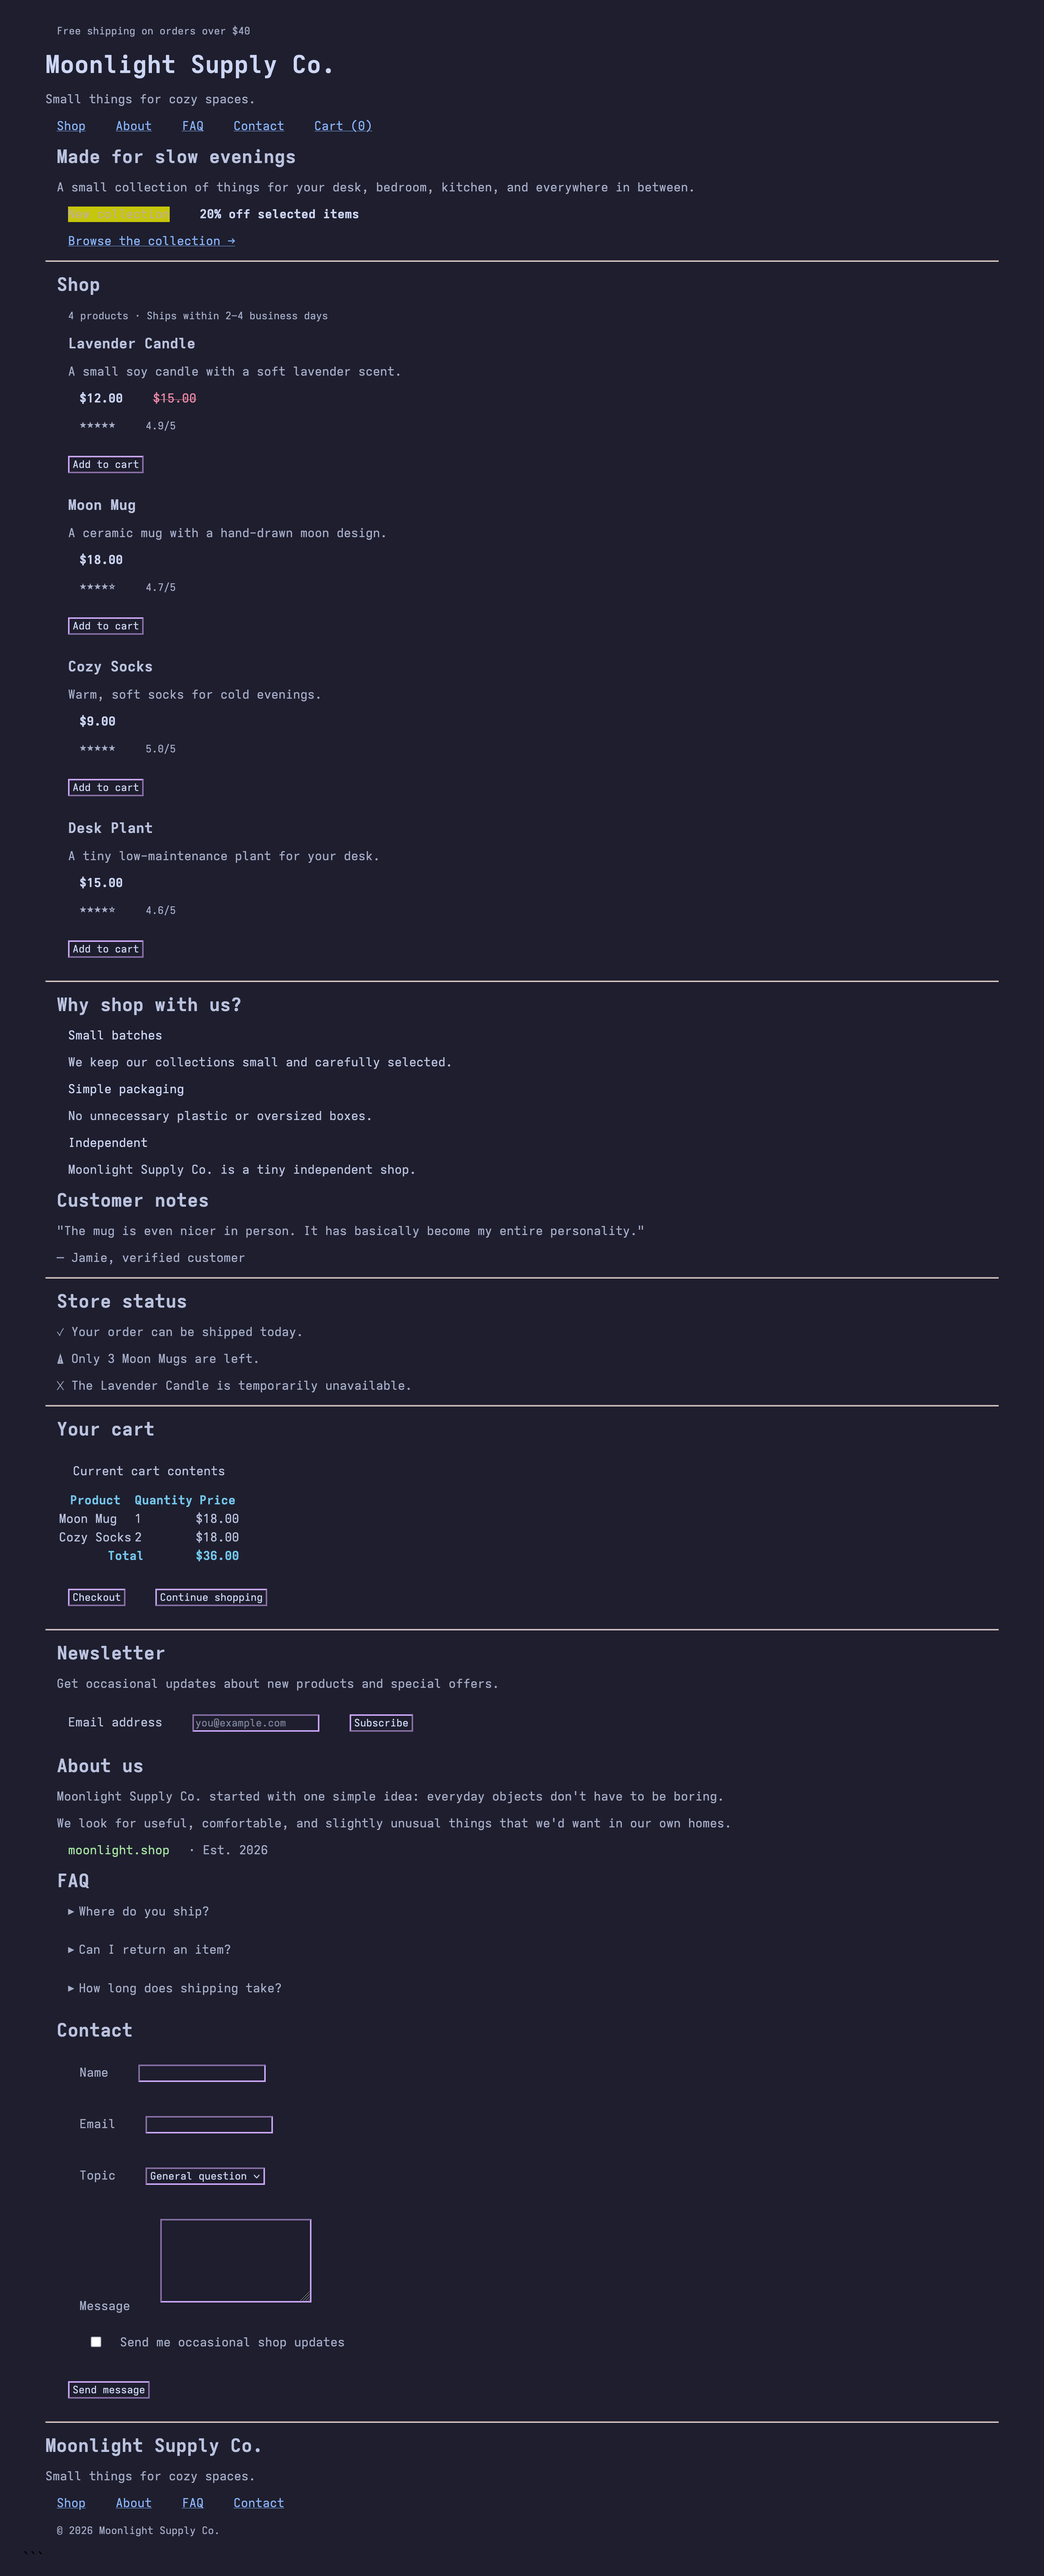
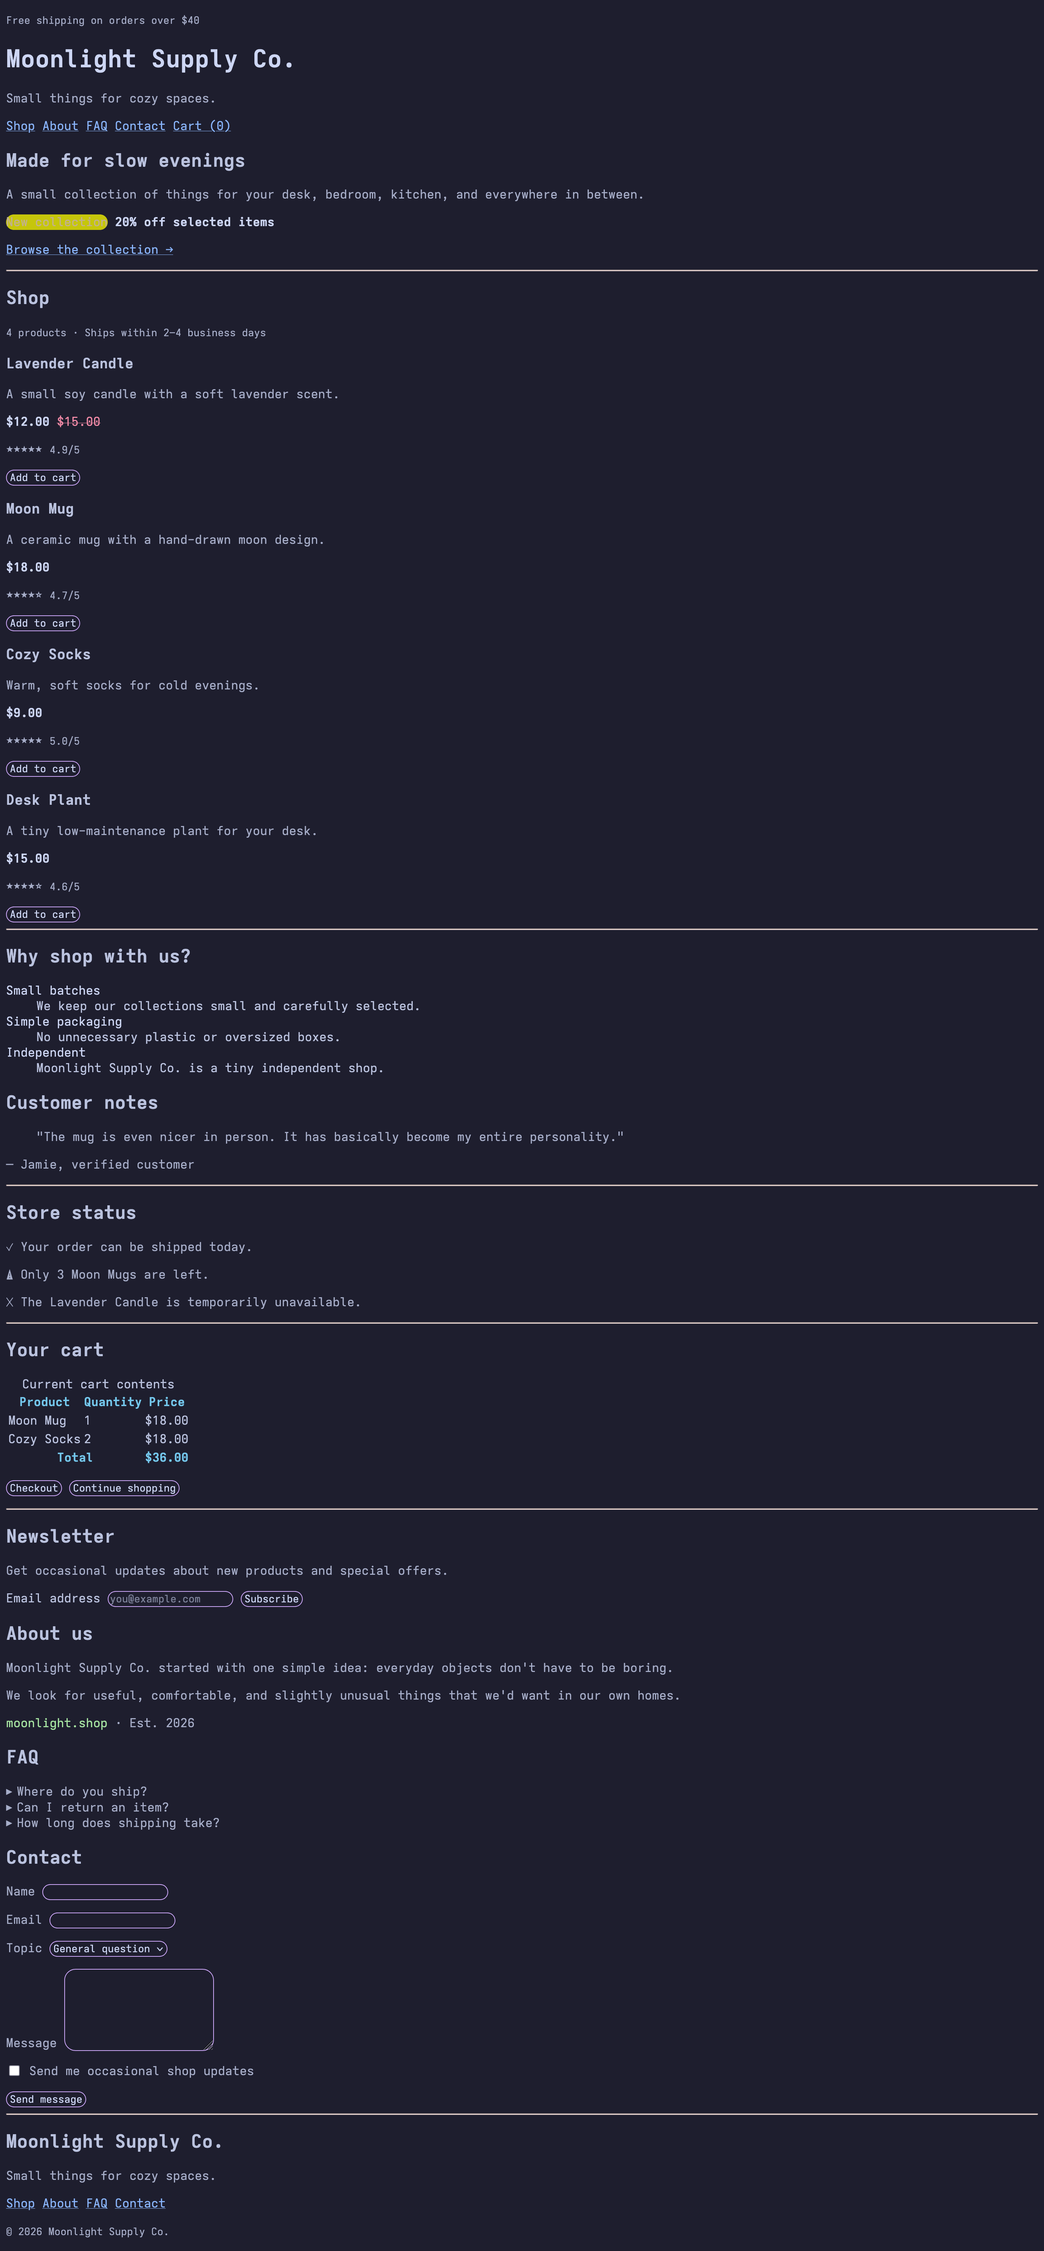
updated demo

diff --git a/demo/style.css b/demo/style.css
@@ -1,9 +1,9 @@
 a:link {
-    color: var(--nord9);
+    color: var(--blue);
 }
 
 a:visited {
-    color: var(--nord15);
+    color: var(--mauve);
 }
 
 button,
@@ -12,28 +12,28 @@ textarea,
 select,
 ul,
 ol {
-    color: var(--nord5);
-    background-color: var(--nord1);
-    border: 1px solid var(--nord15);
+    color: var(--text);
+    background-color: var(--base);
+    border: 1px solid var(--mauve);
 }
 
 button:disabled {
-    background-color: var(--nord0);
+    background-color: var(--crust);
 }
 
 /* import this file in every html test*/
 
 body {
-    background-color: var(--nord1);
+    background-color: var(--base);
 }
 
 hr {
-    border-color: var(--nord7);
+    border-color: var(--rosewater);
 }
 
 h1,
 dt {
-    color: var(--nord6);
+    color: var(--text);
 }
 
 h2,
@@ -45,7 +45,7 @@ dd,
 table,
 form,
 details {
-    color: var(--nord5);
+    color: var(--subtext1);
 }
 
 p,
@@ -54,48 +54,33 @@ pre,
 ul,
 ol,
 summary {
-    color: var(--nord4);
+    color: var(--subtext0);
 }
 
 mark {
-    color: var(--nord13);
+    color: var(--yellow);
     opacity: 75%;
 }
 
 del {
-    color: var(--nord11);
+    color: var(--red);
 }
 
 strong {
-    color: var(--nord6);
+    color: var(--text);
 }
 
 code {
-    color: var(--nord14);
+    color: var(--green);
 }
 
 th {
-    color: var(--nord10);
+    color: var(--sapphire);
 }
 
 @font-face {
     font-family: "AdwaitaMono Nerd Font";
     src: url("/fonts/AdwaitaMonoNerdFont/AdwaitaMonoNerdFont-Regular.ttf");
-}
-
-@font-face {
-    font-family: "AdwaitaMono Nerd Font Bold";
-    src: url("/fonts/AdwaitaMonoNerdFont/AdwaitaMonoNerdFont-Bold.ttf");
-}
-
-@font-face {
-    font-family: "AdwaitaMono Nerd Font Italic";
-    src: url("/fonts/AdwaitaMonoNerdFont/AdwaitaMonoNerdFont-Italic.ttf");
-}
-
-@font-face {
-    font-family: "AdwaitaMono Nerd Font Bold Italic";
-    src: url("/fonts/AdwaitaMonoNerdFont/AdwaitaMonoNerdFont-BoldItalic.ttf");
 }
 
 * {
@@ -107,20 +92,31 @@ th {
 }
 
 :root {
-    --nord0: #2e3440;
-    --nord1: #3b4252;
-    --nord2: #434c5e;
-    --nord3: #4c566a;
-    --nord4: #d8dee9;
-    --nord5: #e5e9f0;
-    --nord6: #eceff4;
-    --nord7: #8fbcbb;
-    --nord8: #88c0d0;
-    --nord9: #81a1c1;
-    --nord10: #5e81ac;
-    --nord11: #bf616a;
-    --nord12: #d08770;
-    --nord13: #ebcb8b;
-    --nord14: #a3be8c;
-    --nord15: #b48ead;
+    --rosewater: #f5e0dc;
+    --flamingo: #f2cdcd;
+    --pink: #f5c2e7;
+    --mauve: #cba6f7;
+    --red: #f38ba8;
+    --maroon: #eba0ac;
+    --peach: #fab387;
+    --yellow: #f9e2af;
+    --green: #a6e3a1;
+    --teal: #94e2d5;
+    --sky: #89dceb;
+    --sapphire: #74c7ec;
+    --blue: #89b4fa;
+    --lavender: #b4befe;
+
+    --text: #cdd6f4;
+    --subtext1: #bac2de;
+    --subtext0: #a6adc8;
+    --overlay2: #9399b2;
+    --overlay1: #7f849c;
+    --overlay0: #6c7086;
+    --surface2: #585b70;
+    --surface1: #45475a;
+    --surface0: #313244;
+    --base: #1e1e2e;
+    --mantle: #181825;
+    --crust: #11111b;
 }
